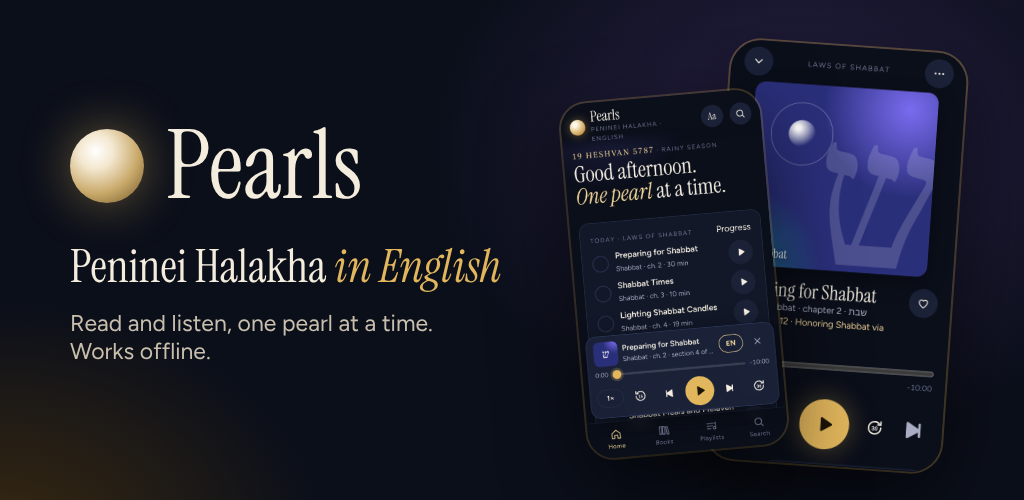
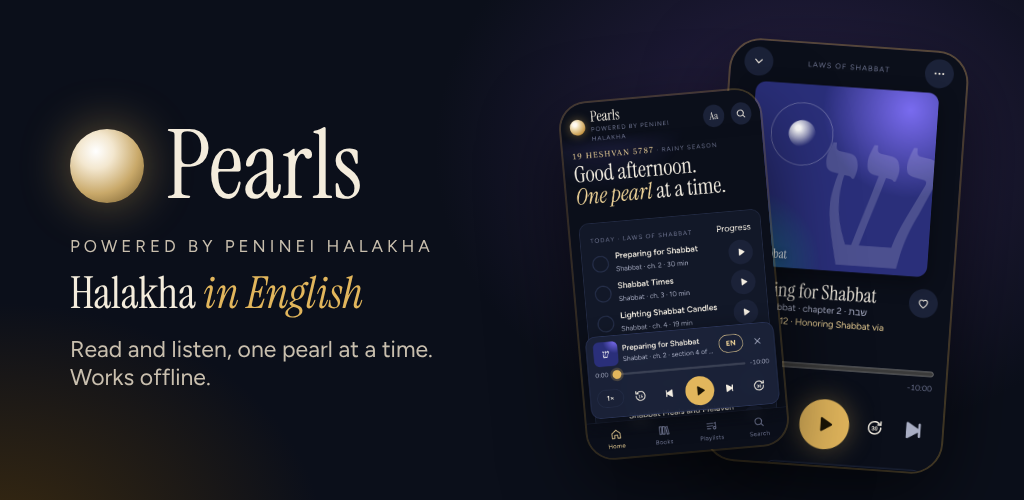
Brand: Pearls, powered by Peninei Halakha (app header, listing, store art)
Claude-Session: https://claude.ai/code/session_01CiYob2zgAtv8xTu1gDBnLX

Changed region(s): [[0.0625, 0.48, 0.5, 0.78], [0.5938, 0.24, 0.6562, 0.27], [0.6875, 0.21, 0.7188, 0.24]]

diff --git a/www/index.html b/www/index.html
@@ -15,7 +15,7 @@
 <div class="aura" aria-hidden="true"></div>
 <header class="top">
   <button class="back" id="backBtn" aria-label="Back" hidden><svg viewBox="0 0 24 24" fill="none" stroke="currentColor" stroke-width="2" stroke-linecap="round" stroke-linejoin="round" width="22" height="22"><path d="M15 5l-7 7 7 7"/></svg></button>
-  <div class="brand" id="brand"><div class="dot"></div><div><b>Pearls</b><small>Peninei Halakha · English</small></div></div>
+  <div class="brand" id="brand"><div class="dot"></div><div><b>Pearls</b><small>Powered by Peninei Halakha</small></div></div>
   <div class="title" id="topTitle" hidden></div>
   <button class="act" data-act="spelling" aria-label="Reading settings" style="margin-left:auto;font-family:var(--f-display);font-size:18px">Aa</button>
   <button class="act" data-go="search" aria-label="Search" style="margin-left:0"><svg viewBox="0 0 24 24" fill="none" stroke="currentColor" stroke-width="1.9" stroke-linecap="round" width="20" height="20"><circle cx="11" cy="11" r="6.5"/><path d="m16 16 4 4"/></svg></button>

diff --git a/store/make_store_art.py b/store/make_store_art.py
@@ -101,7 +101,8 @@ with sync_playwright() as p:
         <div style="display:flex;align-items:center;gap:22px"><div style="width:74px;height:74px;border-radius:50%;
           background:radial-gradient(circle at 35% 30%,#fff 0%,#f3e7cf 25%,#c9a96a 60%,#6b5326 100%);box-shadow:0 0 50px rgba(226,182,92,.45)"></div>
           <div style="font-size:96px;line-height:1">Pearls</div></div>
-        <div style="font-size:46px;line-height:1.15;margin-top:26px">Peninei Halakha <i style="color:#e2b65c">in English</i></div>
+        <div style="font-family:'Figtree',sans-serif;font-size:17px;letter-spacing:4px;text-transform:uppercase;color:#c9bfae;margin-top:22px">Powered by Peninei Halakha</div>
+        <div style="font-size:44px;line-height:1.15;margin-top:12px">Halakha <i style="color:#e2b65c">in English</i></div>
         <div style="font-family:'Figtree',sans-serif;font-size:23px;color:#c9bfae;margin-top:16px">Read and listen, one pearl at a time.<br>Works offline.</div></div>
       <div style="position:absolute;right:70px;top:46px;width:236px;height:420px;border-radius:30px;overflow:hidden;transform:rotate(4deg);
         box-shadow:0 30px 80px rgba(0,0,0,.6),0 0 0 2px rgba(226,182,92,.35)"><img src="file://{RAW}/player.png" style="width:100%"></div>

diff --git a/store/play-listing.md b/store/play-listing.md
@@ -10,11 +10,11 @@ Everything below is what Play Console asks for, in the order it asks. Replace `C
 - `Pearls: Halakha in English` (26)
 
 **Short description** (80 max)
-> Read and listen to Rabbi Melamed's Peninei Halakha in English, even offline. (75)
+> Powered by Peninei Halakha: read and listen to Rabbi Melamed's halakha, offline. (80)
 
 **Full description** (4,000 max)
 
-> Pearls brings Rabbi Eliezer Melamed's Peninei Halakha to your phone: clear, practical Jewish law, chapter by
+> Pearls, powered by Peninei Halakha, brings Rabbi Eliezer Melamed's halakha series to your phone: clear, practical Jewish law, chapter by
 > chapter, to read and to listen to.
 >
 > LISTEN
